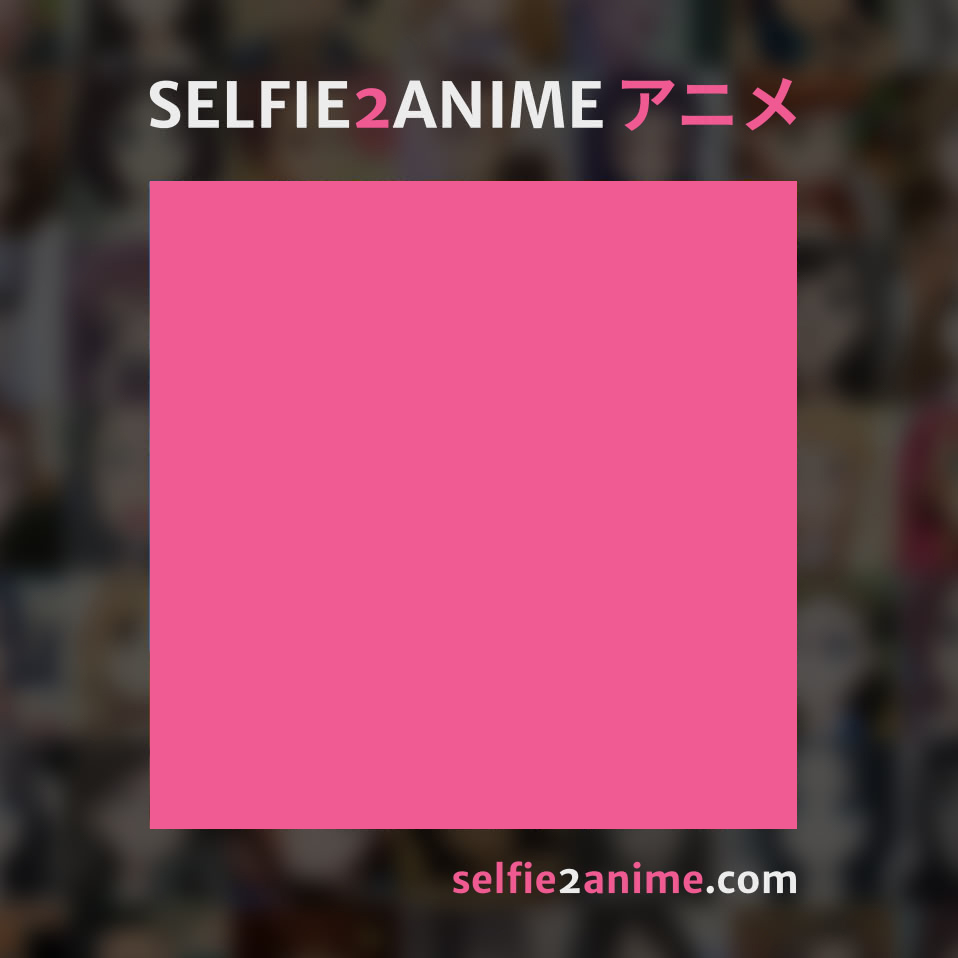
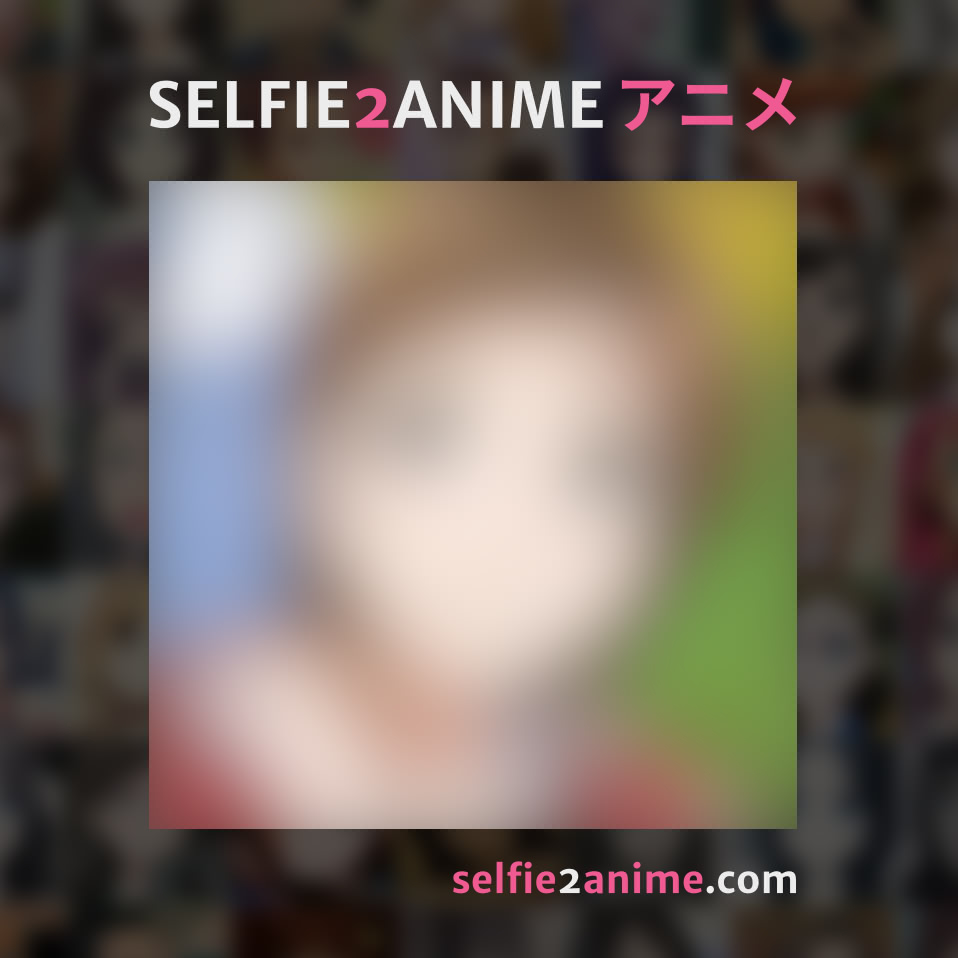
Implement spinner and error message

diff --git a/public/email/index.html b/public/email/index.html
@@ -1,5 +1,6 @@
 <!DOCTYPE html>
 <html lang="en">
+
 <head>
     <meta charset="utf-8">
     <meta name="viewport" content="width=device-width, initial-scale=1, shrink-to-fit=no">
@@ -99,7 +100,8 @@
             padding: 2.5em;
         }
 
-        h1, h2, h3, h4, h5, h6 {
+        h1,
+        h2 {
             font-family: 'Merriweather Sans', sans-serif;
             color: #000;
             margin-top: 0;
@@ -132,7 +134,7 @@
 
         .navigation li {
             list-style: none;
-            display: inline-block;;
+            display: inline-block;
             margin-left: 5px;
             font-size: 12px;
             font-weight: 700;
@@ -194,13 +196,45 @@
             letter-spacing: 2px;
             color: rgba(255, 255, 255, .4);
         }
+
+        .spinner-container {
+            position: absolute;
+            display: flex;
+            flex-direction: row;
+            flex-wrap: wrap;
+            width: 100%;
+            height: 100%;
+            justify-content: center;
+            align-items: center;
+            background-color: rgba(240, 98, 146, 0.5);
+        }
+
+        .spinner {
+            border: 10px solid #fff;
+            border-top: 10px solid transparent;
+            border-radius: 50%;
+            width: 50px;
+            height: 50px;
+            animation: spinner 2s both infinite;
+        }
+
+        @keyframes spinner {
+            0% {
+                transform: rotate(0deg);
+            }
+
+            100% {
+                transform: rotate(360deg);
+            }
+        }
     </style>
 </head>
+
 <body width="100%" style="margin: 0; padding: 0 !important; mso-line-height-rule: exactly; background-color: #222;">
     <center style="width: 100%; background-color: #f1f1f1;">
         <div style="max-width: 600px; margin: 0 auto;" class="email-container">
             <table align="center" role="presentation" cellspacing="0" cellpadding="0" border="0" width="100%"
-                   style="margin: auto;">
+                style="margin: auto;">
                 <tr>
                     <td valign="top" class="bg_white" style="padding: 1em 2.5em;">
                         <table role="presentation" border="0" cellpadding="0" cellspacing="0" width="100%">
@@ -215,17 +249,13 @@
                                 </td>
                                 <td width="40%" class="logo" style="text-align: right;">
                                     <a href="https://www.facebook.com/sharer/sharer.php?u={{viewer_url_escaped}}">
-                                        <img width="32"
-                                             height="32"
-                                             src="https://selfie2anime.com/email/facebook.png"
-                                             alt="Share on Facebook">
+                                        <img width="32" height="32" src="https://selfie2anime.com/email/facebook.png"
+                                            alt="Share on Facebook">
                                     </a>
                                     <a href="https://twitter.com/intent/tweet?url={{viewer_url_escaped}}&text=Hey, this is me as an anime character!&hashtags=selfie2anime"
-                                       target="_blank">
-                                        <img width="32"
-                                             height="32"
-                                             src="https://selfie2anime.com/email/twitter.png"
-                                             alt="Share on Twitter">
+                                        target="_blank">
+                                        <img width="32" height="32" src="https://selfie2anime.com/email/twitter.png"
+                                            alt="Share on Twitter">
                                     </a>
                                 </td>
                             </tr>
@@ -233,15 +263,17 @@
                     </td>
                 </tr>
                 <tr>
-                    <td valign="middle" class="bg_primary"
-                        style="line-height: 0">
-                        <a href="https://selfie2anime.com/"
-                           title="Create your own selfie!">
-                            <img id="selfie"
-                                 width="600" height="600"
-                                 src="https://selfie2anime.com/email/frame.jpg"
-                                 alt="Your Anime Selfie!"
-                                 style="max-width: 100%; height: auto">
+                    <td valign="middle" class="bg_primary" style="line-height: 0; position: relative;">
+                        <div id="spinner-container" class="spinner-container">
+                            <div id="spinner" class="spinner"></div>
+                            <div id="error"
+                                style="display: none; color: white; font-size: 20pt; line-height: 1.5em; text-align: center;">
+                                <b>Oh No! There was an error!<br> Please try again.</b>
+                            </div>
+                        </div>
+                        <a href="https://selfie2anime.com/" title="Create your own selfie!">
+                            <img id="selfie" width="600" height="600" src="frame.jpg" alt="Your Anime Selfie!"
+                                style="max-width: 100%; height: auto">
                         </a>
                     </td>
                 </tr>
@@ -250,28 +282,25 @@
                         <div class="heading-section" style="text-align: center; padding: 0 30px;">
                             <h2>Enjoying Your Selfie?</h2>
                             <p><b>Share it</b> on social media and <a href="https://selfie2anime.com/">create your
-                                own!</a></p>
+                                    own!</a></p>
                         </div>
                         <table width="50%">
                             <tr>
                                 <td>
                                     <div class="text" style="text-align: center">
                                         <a href="https://www.facebook.com/sharer/sharer.php?u={{viewer_url_escaped}}">
-                                            <img width="64"
-                                                 height="64"
-                                                 src="https://selfie2anime.com/email/facebook.png"
-                                                 alt="Share on Facebook">
+                                            <img width="64" height="64"
+                                                src="https://selfie2anime.com/email/facebook.png"
+                                                alt="Share on Facebook">
                                         </a>
                                     </div>
                                 </td>
                                 <td>
                                     <div class="text" style="text-align: center">
                                         <a href="https://twitter.com/intent/tweet?url={{viewer_url_escaped}}&text=Hey, this is me as an anime character!&hashtags=selfie2anime"
-                                           target="_blank">
-                                            <img width="64"
-                                                 height="64"
-                                                 src="https://selfie2anime.com/email/twitter.png"
-                                                 alt="Share on Twitter">
+                                            target="_blank">
+                                            <img width="64" height="64" src="https://selfie2anime.com/email/twitter.png"
+                                                alt="Share on Twitter">
                                         </a>
                                     </div>
                                 </td>
@@ -305,7 +334,7 @@
             return new Promise((resolve, reject) => {
                 const image = new Image();
                 image.crossOrigin = "anonymous";
-                image.onerror = () => reject(new Error("Failed to load frame"));
+                image.onerror = () => reject(new Error("Failed to load frame/selfie"));
                 image.onload = () => resolve(image);
                 image.src = url;
             });
@@ -317,21 +346,27 @@
             const selfieImage = fetchImage(SELFIE_URL);
 
             const context = canvas.getContext("2d");
-            Promise.all([frameImage, selfieImage]).then(images => {
-                canvas.width = 600;
-                canvas.height = 600;
+            Promise.all([frameImage, selfieImage])
+                .then(images => {
+                    canvas.width = 600;
+                    canvas.height = 600;
 
-                context.drawImage(images[0], 0, 0, 600, 600);
-                context.drawImage(images[1], 93, 113, 407, 407);
+                    context.drawImage(images[0], 0, 0, 600, 600);
+                    context.drawImage(images[1], 93, 113, 407, 407);
 
-                document.getElementById("selfie").src = canvas.toDataURL("image/jpeg", 1.0);
-                console.log(canvas.toDataURL("image/jpeg", 1.0));
-            });
+                    document.getElementById("selfie").src = canvas.toDataURL("image/jpeg", 1.0);
+                    document.getElementById("spinner-container").style.display = "none";
+                })
+                .catch(() => {
+                    document.getElementById("spinner").style.display = "none";
+                    document.getElementById("error").style.display = "inline";
+                });
         }
 
-        window.addEventListener("load", function() {
+        window.addEventListener("load", function () {
             generateFrame();
         });
     </script>
 </body>
+
 </html>
